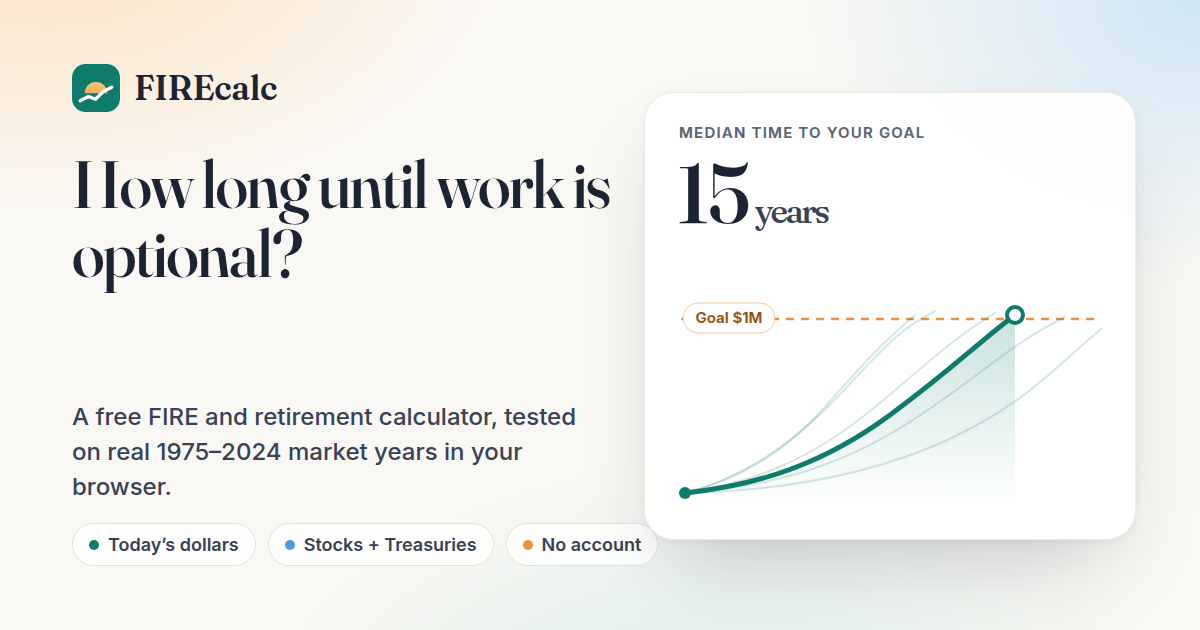
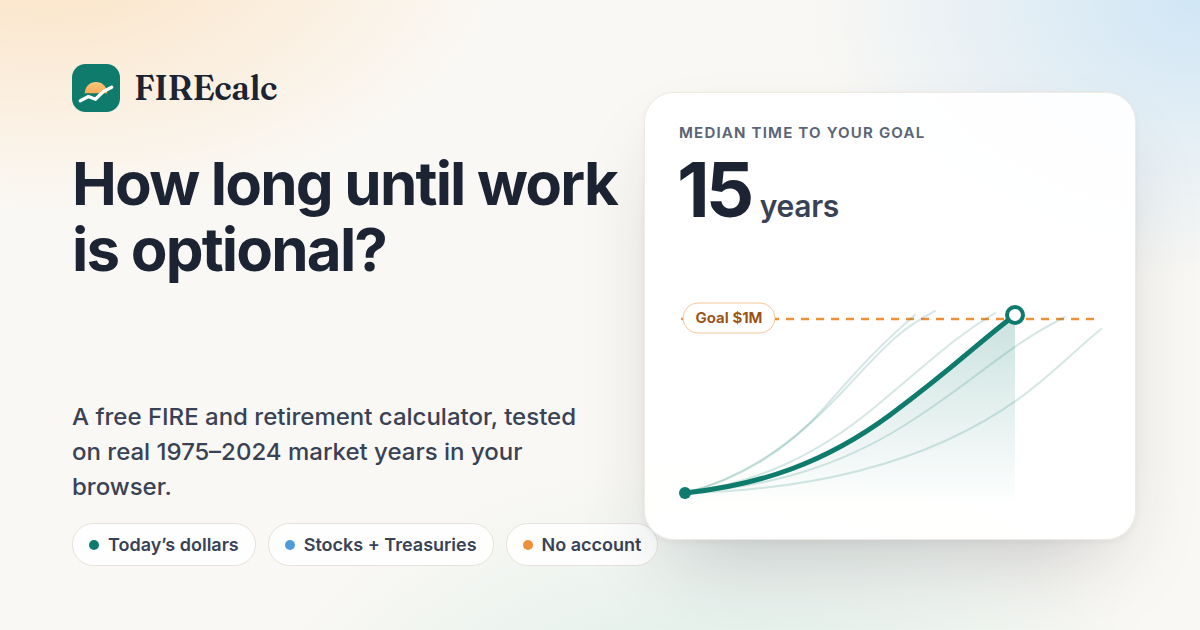
Hero typography: use Inter for the headline and hero result numbers
Replace Fraunces on the page headline, the savings years number, the
retirement success sentence, and the ring percentage with Inter. Regenerate
og-image.png to match. Bump service worker to firecalc-v8 and assets to ?v=8.

Changed region(s): [[0.0617, 0.2413, 0.5242, 0.4524], [0.555, 0.2413, 0.7092, 0.3619]]

diff --git a/styles.css b/styles.css
@@ -150,8 +150,8 @@ main { max-width: 1320px; margin: 0 auto; padding: 36px 24px 56px; outline: none
 .eyebrow-dot-sun { background: var(--sun); box-shadow: 0 0 0 4px var(--sun-wash); }
 .display {
     margin-top: 12px;
-    font-family: var(--font-display); font-weight: 520; font-size: clamp(2rem, 4.2vw, 3.1rem);
-    line-height: 1.06; letter-spacing: -.02em; font-variation-settings: "opsz" 96;
+    font-family: var(--font-sans); font-weight: 700; font-size: clamp(1.9rem, 3.8vw, 2.8rem);
+    line-height: 1.12; letter-spacing: -.025em;
 }
 .lede { margin-top: 14px; font-size: 1.06rem; color: var(--ink-2); max-width: 680px; }
 .lede em { font-style: normal; background: linear-gradient(transparent 62%, var(--sun-soft) 62%); }
@@ -450,11 +450,11 @@ input:disabled, select:disabled { background: var(--surface-2); color: var(--fai
 .hero-savings { display: grid; grid-template-columns: 1.1fr 1fr; gap: 20px 28px; align-items: center; }
 .hero-eyebrow { font-size: .8rem; font-weight: 600; letter-spacing: .06em; text-transform: uppercase; color: var(--muted); display: flex; align-items: center; gap: 6px; }
 .hero-number {
-    font-family: var(--font-display); font-weight: 520; font-size: clamp(3rem, 7vw, 4.6rem); line-height: 1; letter-spacing: -.03em;
-    margin-top: 10px; color: var(--ink); font-variant-numeric: lining-nums tabular-nums; font-variation-settings: "opsz" 144;
+    font-family: var(--font-sans); font-weight: 700; font-size: clamp(2.8rem, 6vw, 4rem); line-height: 1; letter-spacing: -.035em;
+    margin-top: 10px; color: var(--ink); font-variant-numeric: lining-nums tabular-nums;
 }
 .hero-number.hero-number-text { font-size: clamp(1.8rem, 4vw, 2.6rem); line-height: 1.1; }
-.hero-number .unit { font-size: .42em; letter-spacing: -.01em; color: var(--ink-2); margin-left: .18em; font-weight: 480; }
+.hero-number .unit { font-size: .4em; letter-spacing: -.01em; color: var(--ink-2); margin-left: .22em; font-weight: 600; }
 .hero-sub { margin-top: 10px; font-size: 1.02rem; color: var(--ink-2); }
 .hero-sub strong { color: var(--teal-strong); }
 .hero-stats { margin: 0; display: grid; gap: 10px; }
@@ -473,10 +473,10 @@ input:disabled, select:disabled { background: var(--surface-2); color: var(--fai
 .ring-fill.level-low { stroke: var(--coral); }
 .ring-number {
     position: absolute; inset: 0; display: grid; place-items: center;
-    font-family: var(--font-display); font-weight: 540; font-size: clamp(2.2rem, 3.4vw, 2.9rem); letter-spacing: -.03em; font-variant-numeric: tabular-nums; font-variation-settings: "opsz" 144;
+    font-family: var(--font-sans); font-weight: 700; font-size: clamp(2rem, 3vw, 2.5rem); letter-spacing: -.035em; font-variant-numeric: tabular-nums;
 }
-.hero-headline { font-family: var(--font-display); font-size: clamp(1.25rem, 2.3vw, 1.6rem); font-weight: 480; line-height: 1.25; margin-top: 8px; letter-spacing: -.01em; font-variation-settings: "opsz" 48; }
-.hero-headline strong { font-weight: 620; }
+.hero-headline { font-family: var(--font-sans); font-size: clamp(1.15rem, 2vw, 1.4rem); font-weight: 500; line-height: 1.35; margin-top: 8px; letter-spacing: -.012em; }
+.hero-headline strong { font-weight: 700; }
 .assumption-chips { list-style: none; padding: 0; margin: 14px 0 0; display: flex; flex-wrap: wrap; gap: 8px; }
 .a-chip { display: inline-flex; align-items: center; gap: 7px; font-size: .8rem; font-weight: 550; padding: 6px 10px; border-radius: var(--radius-pill); background: rgba(255,255,255,.85); border: 1px solid var(--line); color: var(--ink-2); }
 .a-chip::before { content: ""; width: 7px; height: 7px; border-radius: 50%; background: var(--faint); }

diff --git a/index.html b/index.html
@@ -53,7 +53,7 @@
     <link rel="icon" href="favicon.svg" type="image/svg+xml">
     <link rel="apple-touch-icon" href="icon-192x192.png">
     <link rel="manifest" href="manifest.json">
-    <link rel="stylesheet" href="styles.css?v=7">
+    <link rel="stylesheet" href="styles.css?v=8">
     <script defer src="https://cdn.jsdelivr.net/npm/chart.js@4.5.1/dist/chart.umd.min.js" integrity="sha384-jb8JQMbMoBUzgWatfe6COACi2ljcDdZQ2OxczGA3bGNeWe+6DChMTBJemed7ZnvJ" crossorigin="anonymous"></script>
 </head>
 <body>
@@ -1006,8 +1006,8 @@
 
     <div class="toast" id="toast" role="status" aria-live="polite"></div>
 
-    <script src="market-data.js?v=7"></script>
-    <script src="tax-engine.js?v=7"></script>
-    <script defer src="app.js?v=7"></script>
+    <script src="market-data.js?v=8"></script>
+    <script src="tax-engine.js?v=8"></script>
+    <script defer src="app.js?v=8"></script>
 </body>
 </html>

diff --git a/service-worker.js b/service-worker.js
@@ -1,4 +1,4 @@
-const CACHE_NAME = 'firecalc-v7';
+const CACHE_NAME = 'firecalc-v8';
 
 function isHtmlRequest(request) {
   if (request.method !== 'GET') return false;
